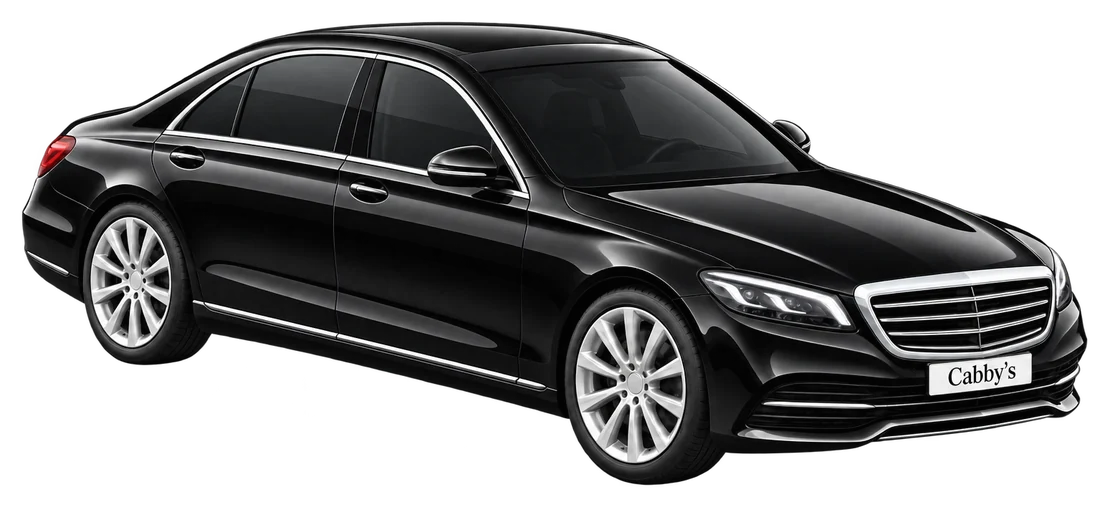
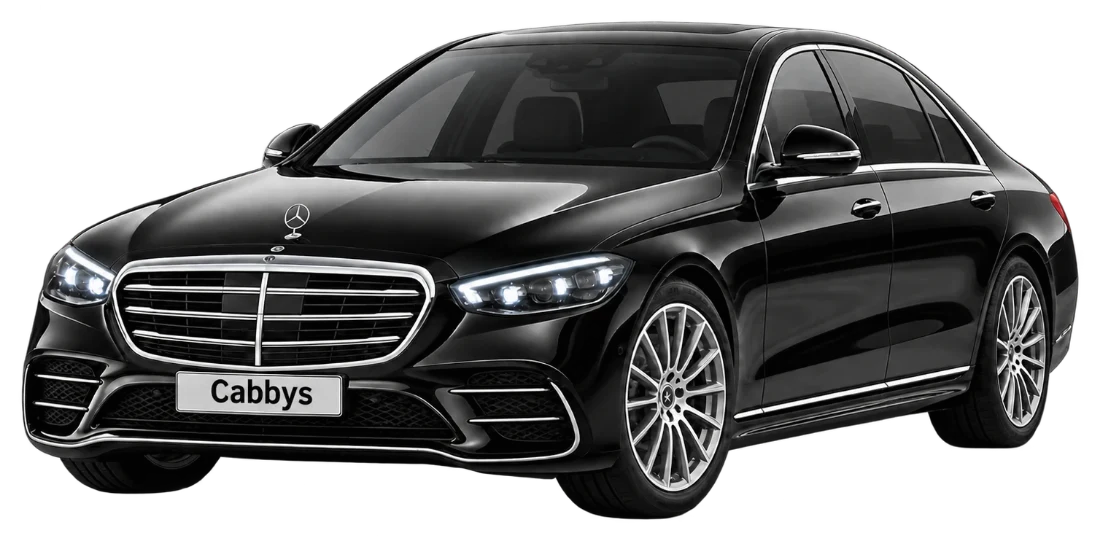
Fleet: portrait cards, the car cropped at the tail, new left-facing photos
After the reference's fleet row: each card's photo is now a 3:4 portrait
(cards ~400px tall at four across, from ~270), and the car is drawn at 118%
of the card's width, nose to the left, bottom-anchored on one ground line,
with its tail running off the right edge. Drawn by width, not fitted, so
all four are at one scale and the Sprinter reads as the long one. The navy
ground, backlight and floor pool stay, moved to where the car now stands.

The four photos are replaced with the new left-facing renders ("Cabbys"
plates; the SUV is now a GLS type), cut to the car and encoded per
public/fleet/README.md, which is updated for the new framing.

Under the name: guest and bag counts with icons, and the "From" fare across
from them — beside the name, four across, it cut "Luxury Sprinter" to
"Luxury Spr…". The words "guests" and "bags" stay in each button's name for
screen readers. Below 900px the row is the swipe rail with the next card
showing (two and a bit on a tablet) instead of two columns of 460px photos.

Claude-Session: https://claude.ai/code/session_011rXqxRhUQR5LvHyF3pprsK

diff --git a/src/styles/globals.css b/src/styles/globals.css
@@ -1308,48 +1308,58 @@ body.locked .qcard{-webkit-backdrop-filter:none;backdrop-filter:none;}
              box-shadow var(--dur-slow-ui) var(--ease-ui);}
 .fcard:hover{transform:translateY(-2px);border-color:var(--silver-deep);box-shadow:var(--shadow-hard);}
 .fcard:active{transform:translateY(0);transition-duration:var(--dur-press);}
-/* The car was 64% of the card's width and black on navy, so the section
-   read as four dark cards with something small in each. Two causes, two
-   fixes. SIZE: the PNGs carried their own empty margins (the car was 80% of
-   its frame, by convention) and the frame added 9-10% padding on top, so
-   the margins compounded. The files are now cropped to the car, and the
-   frame's content box is 1.67:1 — the Sprinter's own ratio, the tallest of
-   the four — so every car spans the card's full inner width, and the lower
-   ones simply leave sky above them. Bottom-aligned, so all four stand on
-   one ground line. VISIBILITY: a black car needs light BEHIND it to have an
-   edge. A soft --highlight backlight sits behind the body and a pale floor
-   pool under the wheels; both are light, so the silhouette separates from
-   the card without a plate or an outline around the car. */
-.fshot{display:block;aspect-ratio:3/2;padding:7% 6% 9%;
+/* ── the photograph ── portrait, after the reference's fleet row: the car
+   front-three-quarter, nose to the left, standing a little below the
+   middle and running out of the card on the right. The crop is the point.
+   A whole car fitted into a landscape box (what this was) is a catalogue
+   thumbnail; a car too big for its frame, cut at the tail, is a car you are
+   standing next to. The tail is the part to lose — the face, the lamps and
+   the plate are what identify it.
+
+   Sized by WIDTH (118% of the card, so about a sixth of the car — the
+   tail — is cut), not fitted with object-fit, so all four are drawn at one
+   scale and the Sprinter is visibly the long one; anchored by the BOTTOM,
+   so all four stand on one ground line whatever their height. The files
+   are cut to the car (public/fleet/README.md), so the anchors are the
+   car's own edges.
+
+   The ground is the one this card has always had — navy, a soft backlight
+   so a black car has an edge, a pale pool under the wheels — moved to
+   where the car now stands. */
+.fshot{position:relative;display:block;aspect-ratio:3/4;overflow:hidden;
+  --ground-y:70%;
   background:
-    radial-gradient(46% 30% at 50% 88%,rgba(215,217,216,.16) 0%,rgba(215,217,216,0) 100%),
-    radial-gradient(70% 62% at 50% 52%,rgba(215,217,216,.13) 0%,rgba(215,217,216,0) 100%),
-    radial-gradient(120% 90% at 50% 38%,#17304A 0%,#0C1D2D 52%,var(--surface) 92%);}
-/* contain, not cover: the files are cut to the car now, so there are no
-   empty bands left to crop — cover would take the bumpers instead. */
-.fshot img{width:100%;height:100%;object-fit:contain;object-position:center bottom;display:block;
+    radial-gradient(52% 9% at 44% var(--ground-y),rgba(215,217,216,.16) 0%,rgba(215,217,216,0) 100%),
+    radial-gradient(80% 34% at 48% 56%,rgba(215,217,216,.12) 0%,rgba(215,217,216,0) 100%),
+    radial-gradient(130% 80% at 50% 44%,#17304A 0%,#0C1D2D 54%,var(--surface) 94%);}
+.fshot img{position:absolute;left:6%;bottom:calc(100% - var(--ground-y) - 2%);
+  width:118%;max-width:none;height:auto;display:block;
   filter:drop-shadow(0 12px 16px rgba(0,0,0,.6));
-  transform-origin:50% 100%;
+  transform-origin:12% 100%;
   transition:transform var(--dur-slow-ui) var(--ease-ui);}
-.fcard:hover .fshot img{transform:scale(1.04);}
+.fcard:hover .fshot img{transform:scale(1.035);}
 @media(prefers-reduced-motion:reduce){
   .fcard,.fshot img{transition:none;}
   .fcard:hover{transform:none;}
   .fcard:hover .fshot img{transform:none;}
 }
+
+/* ── the plate ── the name on its own line, never cut; under it what the
+   car holds and, across from that, what it costs. The fare keeps its
+   "From": it is the airport-to-Palm-Beach quote, not this trip's price,
+   and a bare number would claim it was. */
 .fmeta{display:block;padding:16px 18px 18px;border-top:1px solid var(--line);}
 .fname{display:block;font-size:var(--t-body);font-weight:600;letter-spacing:.01em;color:var(--ink);}
-/* The price used to sit absolutely bottom-right with the line beside it
-   padded to clear it — and in a four-across card "12 guests · 12 bags" did
-   not fit the room left, wrapped, and made the Sprinter's card the one card
-   in the row with a different height. The price has its own row now, so
-   nothing has to be told where to stop. */
-.fpax{display:block;font-size:var(--t-meta);color:var(--muted);margin-top:5px;}
-.ffrom{display:flex;align-items:baseline;gap:6px;padding:0 18px 18px;margin-top:-6px;}
+.fline{display:flex;align-items:center;justify-content:space-between;gap:10px;margin-top:10px;}
+.fspec{display:flex;gap:14px;font-size:var(--t-meta);color:var(--silver);font-variant-numeric:tabular-nums;}
+.fsp{display:inline-flex;align-items:center;gap:6px;}
+.fsp svg{flex:none;color:var(--silver);}
+.ffrom{flex:none;display:flex;align-items:baseline;gap:5px;white-space:nowrap;}
 .ffrom .fl{font-size:var(--t-meta);color:var(--muted);}
-.ffrom .fv{font-size:17px;font-weight:600;color:var(--ink);}
-@media(max-width:1040px){.fgrid{grid-template-columns:repeat(2,minmax(0,1fr));}}
-@media(max-width:520px){
+.ffrom .fv{font-size:var(--t-body);font-weight:600;color:var(--ink);font-variant-numeric:tabular-nums;}
+/* four across down to a small laptop; under that, the rail */
+@media(max-width:1040px){.fgrid{gap:14px;}}
+@media(max-width:899px){
   /* ── the rail ──────────────────────────────────────────────────────
      Four full-width cards stacked is four screens of scrolling to compare
      four things. One swipeable rail instead, with the next card showing at
@@ -1371,6 +1381,8 @@ body.locked .qcard{-webkit-backdrop-filter:none;backdrop-filter:none;}
     scrollbar-width:none;}
   .fgrid::-webkit-scrollbar{display:none;}
   .fcard{flex:0 0 78%;scroll-snap-align:start;}
+  /* a tablet shows two and the edge of a third, as the reference's row does */
+  @media(min-width:521px){.fcard{flex-basis:calc((100% - 28px) / 2.3);}}
   /* the lift on hover is a pointer idiom and costs a repaint mid-swipe */
   .fcard:hover{transform:none;}
 

diff --git a/src/components/Fleet.tsx b/src/components/Fleet.tsx
@@ -13,9 +13,11 @@ import { useStartBooking } from "../booking/useStartBooking";
 // Representative popular route for the indicative "from" fare.
 const SAMPLE_TO = "palm-beach";
 
-/** The width the carousel takes over at — the same 520px the grid already
-    collapsed to one column at, so there is one breakpoint, not two. */
-const PHONE = "(max-width:520px)";
+/** The width the carousel takes over at. The cards are portrait now, and two
+    columns of them on a tablet were 460px of photograph each — the section
+    ran two screens tall to show four cars. Below 900px it is the rail, as
+    the reference draws its row: the next card cut off at the edge. */
+const PHONE = "(max-width:899px)";
 
 /** Four full-width cards stacked down a phone is four screens of scrolling
     to compare four things, and the section stops being a row you can read
@@ -33,6 +35,25 @@ function useIsPhone(): boolean {
     return () => mq.removeEventListener?.("change", sync);
   }, []);
   return phone;
+}
+
+/** §07's line icons — a 20px grid, one weight — for the two numbers a car
+    is chosen by. Two figures, not one: "guests" is a group. */
+const GUESTS = <><circle cx="8" cy="6.8" r="2.8" /><path d="M2.6 16.5c.5-3 2.7-4.7 5.4-4.7s4.9 1.7 5.4 4.7" /><path d="M12.7 4.3a2.8 2.8 0 0 1 0 5.1M14.7 11.9c1.5.6 2.4 2.1 2.7 4.6" /></>;
+const BAGS = <><rect x="4" y="6.6" width="12" height="10.4" rx="1.6" /><path d="M7.6 6.6V4.9c0-.7.5-1.2 1.2-1.2h2.4c.7 0 1.2.5 1.2 1.2v1.7M7.6 9.6v4.4M12.4 9.6v4.4" /></>;
+
+function Spec({ icon, n, unit }: { icon: React.ReactNode; n: number; unit: string }) {
+  return (
+    <span className="fsp">
+      <svg width="18" height="18" viewBox="0 0 20 20" fill="none" stroke="currentColor"
+        strokeWidth="1.3" strokeLinecap="round" strokeLinejoin="round" aria-hidden="true">
+        {icon}
+      </svg>
+      {n}
+      {/* the icon is the unit for the eye; the button's name needs the word */}
+      <span className="sr-only"> {unit}</span>
+    </span>
+  );
 }
 
 export default function Fleet() {
@@ -102,17 +123,25 @@ export default function Fleet() {
                   </span>
                   <span className="fmeta">
                     <span className="fname">{v.name}</span>
-                    {/* Guests AND bags: two people with four suitcases do not
-                        fit the car that seats three, and "1–3 Passengers"
-                        never said so. The booking step already showed both. */}
-                    <span className="fpax">{v.pax} guests &middot; {v.bags} bags</span>
-                  </span>
-                  {from && (
-                    <span className="ffrom">
-                      <span className="fl">From</span>
-                      <span className="fv">{usd(from.totalUsd)}</span>
+                    {/* What it holds on the left, what it costs on the right.
+                        The reference puts the fare beside the name; four
+                        across, "Luxury Sprinter" and "From $82" do not both
+                        fit one line, and the name is the one that cannot be
+                        cut. Guests AND bags: two people with four suitcases
+                        do not fit the car that seats three. */}
+                    <span className="fline">
+                      <span className="fspec">
+                        <Spec icon={GUESTS} n={v.pax} unit="guests" />
+                        <Spec icon={BAGS} n={v.bags} unit="bags" />
+                      </span>
+                      {from && (
+                        <span className="ffrom">
+                          <span className="fl">From</span>
+                          <span className="fv">{usd(from.totalUsd)}</span>
+                        </span>
+                      )}
                     </span>
-                  )}
+                  </span>
                 </button>
               );
             })}

diff --git a/src/components/Fleet.test.tsx b/src/components/Fleet.test.tsx
@@ -1,0 +1,33 @@
+// The fleet cards show what a car holds as two icons and two numbers. The
+// icons are the unit for the eye only — each card is a button, and its name
+// is all a screen reader hears, so the words have to be in it.
+import { render, screen } from "@testing-library/react";
+import { describe, it, expect, vi } from "vitest";
+import { MemoryRouter } from "react-router-dom";
+import Fleet from "./Fleet";
+import { BookingProvider } from "../booking/BookingContext";
+import { VEHICLES } from "../data/vehicles";
+
+// The "from" fares are computed from the Supabase pricing; the cards must
+// render without it, as they do while it loads.
+vi.mock("../lib/pricing", async (orig) => ({
+  ...(await orig<typeof import("../lib/pricing")>()),
+  loadPricing: () => new Promise(() => {}),
+}));
+
+describe("Fleet cards", () => {
+  it("name each car with its guests and bags in words, not only icons", () => {
+    render(
+      <MemoryRouter>
+        <BookingProvider><Fleet /></BookingProvider>
+      </MemoryRouter>,
+    );
+    for (const v of VEHICLES) {
+      const card = screen.getByRole("button", { name: new RegExp(`^${v.name}\\b`) });
+      expect(card).toHaveAccessibleName(expect.stringContaining(`${v.pax} guests`));
+      expect(card).toHaveAccessibleName(expect.stringContaining(`${v.bags} bags`));
+      // the photo is decoration inside a button that already says the name
+      expect(card.querySelector("img")).toHaveAttribute("alt", "");
+    }
+  });
+});

diff --git a/public/fleet/README.md b/public/fleet/README.md
@@ -7,12 +7,18 @@ booking flow's car step (`.vthumb`).
 | file            | tier            | the car in the shot          |
 | --------------- | --------------- | ---------------------------- |
 | `sedan.webp`    | Executive Sedan | Mercedes S-Class type saloon |
-| `suv.webp`      | Luxury SUV      | full-size luxury SUV         |
+| `suv.webp`      | Luxury SUV      | Mercedes GLS type SUV        |
 | `transit.webp`  | Premium Van     | Mercedes V-Class type MPV    |
 | `sprinter.webp` | Luxury Sprinter | Mercedes Sprinter            |
 
 A tier is a category, not a car — drivers arrive in their own vehicles, so the
-shot shows a representative one, and each carries a "Cabby's" plate.
+shot shows a representative one, and each carries a "Cabbys" plate.
+
+**All four face the same way: front three-quarter, nose to the LEFT.** The
+landing cards crop the car on the right (see below), so a car facing right
+would lose its face instead of its tail. A replacement that faces the other
+way needs mirroring — and a mirrored plate reads backwards, so ask for a
+render that faces left instead.
 
 Filenames are lower case and the code asks for them exactly. `SUV.png` worked
 on a Mac and 404'd everywhere else; Linux and the deploy host are both
@@ -29,18 +35,17 @@ case-sensitive.
   the glass is unmissable, and on the card's dark navy, where a pale rim from
   a white-background cut is.
 - **Crop to the car**: its bounding box (alpha > 12) plus a margin of 2% of
-  the car's width on every side. The cards do the framing — `.fshot`'s
-  content box is 1.67:1 with `object-fit:contain`, bottom-aligned, so every
-  car spans the card's inner width and stands on one ground line. A car
-  taller than 1.67:1 is height-bound and comes out a little narrower; the
-  Sprinter, at 1.65, is the only one and the difference is a few pixels.
-  The old convention ("car at 80% of the frame") put a margin in every file
-  that stacked on the card's padding, and the cars rendered at 64% of the
-  card's width.
-- **1100px wide, WebP at quality 88 with lossless alpha.** The cards render
-  up to ~290 CSS px wide on a phone, so 3× wants ~870px; 1100 covers it. As
-  PNG the four were 430–620KB each, which is ~2MB of cars on the landing
-  page; as WebP they are 77–99KB.
+  the car's width on every side. The cards do the framing. On the landing
+  page `.fshot` is a 3:4 portrait box and the car is drawn at 118% of its
+  width, 6% in from the left and bottom-anchored on one ground line — so
+  every car is at one scale, the tail runs off the right edge, and the
+  Sprinter is visibly the longest. Any margin left in the file shifts the
+  car off that line. The booking step's `.vthumb` still fits the whole car
+  (`object-fit:contain`).
+- **1100px wide, WebP at quality 88.** The car is drawn up to ~350 CSS px
+  wide (118% of a ~295px tablet card), so 3× wants ~1050px; 1100 covers it.
+  As PNG a set like this is ~2MB of cars on the landing page; as WebP the
+  four are 96–121KB.
 
 A missing or renamed file is not fatal: `VehiclePhoto` collapses the slot and
 the row falls back to its text-only layout.
